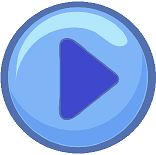
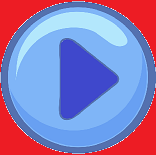
add less brightness, while not pressed srtart in Smash_It and Labyrinth

Changed region(s): [[0.0, 0.5419, 1.0, 1.0], [0.0, 0.0, 1.0, 0.4645]]

diff --git a/Augmented_climbing_wall/Labyrinth/level.cpp b/Augmented_climbing_wall/Labyrinth/level.cpp
@@ -60,6 +60,8 @@ Level::Level(std::string topScore)
 	button_soundBuffer.loadFromFile("Labyrinth/sounds/lab_actionButton_presed.wav");
 	buttonSound.setBuffer(button_soundBuffer);
 
+	brightness = false; //in false -> not full brightness
+
 
 }
 
@@ -172,13 +174,13 @@ Level::Line::Line(sf::Vector2f startPoint, float angl, float length)
 	circleRadius = 40;
 	circleShape1.setFillColor(sf::Color(0, 0, 0));
 	circleShape1.setRadius(circleRadius);
-	circleShape1.setFillColor(sf::Color(2, 188, 255));
+	circleShape1.setFillColor(sf::Color(2, 188, 255, 100));
 	circleShape1.setPosition(sf::Vector2f(_endPoint));
 	circleShape1.setOrigin(circleRadius - 8, circleRadius+8);
 
 	circleShape2.setFillColor(sf::Color(0, 0, 0));
 	circleShape2.setRadius(circleRadius);
-	circleShape2.setFillColor(sf::Color(2, 188, 255));
+	circleShape2.setFillColor(sf::Color(2, 188, 255, 100));
 	circleShape2.setPosition(sf::Vector2f(_startPoint));
 	circleShape2.setOrigin(circleRadius, circleRadius-8);
 }
@@ -192,6 +194,7 @@ Level::Button::Button(sf::Vector2f position, float radius, std::string filename,
 	_sprite.setTexture(_texture);
 	_sprite.setTextureRect(textureRect);
 	_sprite.setPosition(_position);
+	_sprite.setColor(sf::Color(255, 255, 255, 100));
 
 
 	_center = sf::Vector2f(_position.x + _radius, _position.y + _radius);
@@ -217,6 +220,7 @@ void Level::setSpritesArr(Line& line, sf::Texture texture)
 		line.sprite.setTexture(texture);
 		line.sprite.setPosition(line._startPoint);		//init the start position of all sprites
 		line.sprite.setScale(line.size.x / 210, 1);	
+		line.sprite.setColor(sf::Color(255, 255, 255, 100));
 }
 
 
@@ -236,6 +240,14 @@ void Level::linesUpdate(std::vector<Line>& lines)
 
 		lines[i].circleShape1.setPosition(sf::Vector2f(lines[i]._endPoint));
 		lines[i].circleShape2.setPosition(sf::Vector2f(lines[i]._startPoint));
+
+		//make lvl full britnes
+		if (brightness)
+		{
+			lines[i].sprite.setColor(sf::Color(255, 255, 255, 255));
+			lines[i].circleShape1.setFillColor(sf::Color(2, 188, 255, 255));
+			lines[i].circleShape2.setFillColor(sf::Color(2, 188, 255, 255));
+		}
 	}
 
 
@@ -320,7 +332,7 @@ void Level::win_lose_Draw(sf::RenderWindow & renderWindow, std::vector<Line>& li
 				renderWindow.draw(_text);
 				_text.setPosition(400, 200);
 				if (!TOPScore_updated) TOP_List_Update();
-				TOP_List_Draw();
+				score_Draw();
 			}
 			else
 			{
@@ -468,8 +480,17 @@ void Level::buttonsUpdate(std::vector<Button>& buttons)
 					buttonSound.play();
 				}
 			}
+			
 		}
 		
+	}
+	if (brightness)
+	{
+		for (int i = 0; i < buttons.size(); i++)
+		{
+
+			buttons[i]._sprite.setColor(sf::Color(255, 255, 255, 255));
+		}
 	}
 
 	//Run win animation when screan circly go white
@@ -489,47 +510,47 @@ void Level::buttonsUpdate(std::vector<Button>& buttons)
 }
 
 
-void Level::showTopScore()
-{
-	int scoresCount = 1;
-	std::vector<sf::Text> plaersScore;
-	sf::Font font;
-	font.loadFromFile("Smash_It/font/11583.ttf");
+//void Level::showTopScore()
+//{
+	//int scoresCount = 1;
+	//std::vector<sf::Text> plaersScore;
+	//sf::Font font;
+	//font.loadFromFile("Smash_It/font/11583.ttf");
 
 
 
-	std::set<std::pair<float, std::string>>::iterator it;
+	//std::set<std::pair<float, std::string>>::iterator it;
 
-	for (it = TOP_List.begin(); it != TOP_List.end(); ++it)
-	{
-
-		std::string plaerScore_str = std::to_string(scoresCount) + ". " /*+ it->second */ + "       " + std::to_string((float)it->first);
-		sf::Text plaerScore(plaerScore_str, font, 150);
-		plaerScore.setPosition(MainWindow::getWindow().getSize().x / 2 - 400, 200 + 100 * scoresCount);
-		plaersScore.push_back(plaerScore);
-
-		scoresCount++;
-	}
-
-	////Top score screen
-	//bool flag = true;
-	//while (flag)
+	//for (it = TOP_List.begin(); it != TOP_List.end(); ++it)
 	//{
-	sf::Text topScore("TOP SCORE", font, 150);
-	topScore.setPosition(MainWindow::getWindow().getSize().x / 2 - 400, 100);
+
+	//	std::string plaerScore_str = std::to_string(scoresCount) + ". " /*+ it->second */ + "       " + std::to_string((float)it->first);
+	//	sf::Text plaerScore(plaerScore_str, font, 150);
+	//	plaerScore.setPosition(MainWindow::getWindow().getSize().x / 2 - 400, 200 + 100 * scoresCount);
+	//	plaersScore.push_back(plaerScore);
+
+	//	scoresCount++;
+	//}
+
+	//////Top score screen
+	////bool flag = true;
+	////while (flag)
+	////{
+	//sf::Text topScore("TOP SCORE", font, 150);
+	//topScore.setPosition(MainWindow::getWindow().getSize().x / 2 - 400, 100);
 
 
-	MainWindow::getWindow().clear(sf::Color(0, 0, 0));
-	MainWindow::getWindow().draw(topScore);
-	for (int i = 0; i < plaersScore.size(); i++)
-	{
-		MainWindow::getWindow().draw(plaersScore[i]);
-	}
+	//MainWindow::getWindow().clear(sf::Color(0, 0, 0));
+	//MainWindow::getWindow().draw(topScore);
+	//for (int i = 0; i < plaersScore.size(); i++)
+	//{
+	//	MainWindow::getWindow().draw(plaersScore[i]);
+	//}
 
-	//MainWindow::getWindow().display();
+	////MainWindow::getWindow().display();
 
 	//}
-}
+//}
 
 
 void Level::TOP_List_Update()
@@ -559,7 +580,7 @@ void Level::TOP_List_Update()
 	TOPScore_updated = true;
 }
 
-void Level::TOP_List_Draw()
+void Level::score_Draw()
 {
 	name = to_string(Labyrinth::Timer::gameTime);
 
@@ -589,13 +610,18 @@ void Level::TOP_List_Draw()
 	text.setPosition(MainWindow::getWindow().getSize().x / 2 - 500, 400);
 
 
-	MainWindow::getWindow().draw(text);
+	//MainWindow::getWindow().draw(text);
 	MainWindow::getWindow().draw(scoreText);
 	//MainWindow::getWindow().draw(gameOverText);
 
 
 
 	
+}
+
+void Level::setBrightness(bool _brightnees)
+{
+	brightness = _brightnees;
 }
 
 

diff --git a/Augmented_climbing_wall/Labyrinth/Labyrinth_Timer.cpp b/Augmented_climbing_wall/Labyrinth/Labyrinth_Timer.cpp
@@ -5,11 +5,7 @@
 
 Labyrinth::Timer::Timer()
 {
-	gameTimeClock.restart();
-	text.setStyle(sf::Text::Bold);
-	text.setPosition(50, 400);
-	finished = false;
-	finishedTime = 0;
+	
 }
 
 Labyrinth::Timer::~Timer() {
@@ -18,6 +14,13 @@ Labyrinth::Timer::~Timer() {
 
 void Labyrinth::Timer::Load(std::string filename) {
 	font.loadFromFile(filename);
+	gameTimeClock.restart();
+	text.setStyle(sf::Text::Bold);
+	text.setPosition(50, 400);
+	text.setCharacterSize(150);
+	text.setFillColor(sf::Color(255, 255, 255, 100));
+	finished = false;
+	finishedTime = 0;
 }
 
 sf::Time Labyrinth::Timer::GetTime() {
@@ -57,6 +60,7 @@ void Labyrinth::Timer::setFinished(bool res)
 	finishedTime = gameTimeClock.getElapsedTime().asMilliseconds() / 1000.0;
 	text.setCharacterSize(250);
 	text.setPosition(500, 400);
+
 }
 bool Labyrinth::Timer::getFinished() {
 	return finished;
@@ -69,6 +73,12 @@ void Labyrinth::Timer::reInit() {
 	text.setPosition(50, 400);
 	finished = false;
 	start = false;
+	text.setFillColor(sf::Color(255, 255, 255, 100));
+}
+
+void Labyrinth::Timer::setBrightness()
+{
+	text.setFillColor(sf::Color(255, 255, 255, 255));
 }
 	
 

diff --git a/Augmented_climbing_wall/main.cpp b/Augmented_climbing_wall/main.cpp
@@ -11,7 +11,7 @@ int main()
 {
 	std::cout << "tyt&";
 	myServer *server = new myServer();
-	server->InitServer();
+	//server->InitServer();
 	Cliker::Init();
 
 
@@ -22,15 +22,15 @@ int main()
 
 	while (true)
 	{
-		switch (server->getData()[gameState])
-		//switch (1)
+		//switch (server->getData()[gameState])
+		switch (1)
 		{
 		case(myServer::EXIT):
 			break;
 		case(myServer::PLAY):
 			MainWindow::getWindow().setMouseCursorVisible(true);
-			switch (server->getData()[game])
-			//switch (2)
+			//switch (server->getData()[game])
+			switch (2 )
 			{
 			case(myServer::SMASH_IT):
 			{
@@ -45,8 +45,8 @@ int main()
 				std::cout << "LABYRINTH started \n";
 
 				Labyrinth::Game labyrinth(MainWindow::getWindow());
-				labyrinth.Start(*server, server->getData()[LvL]);
-				//labyrinth.Start(*server, 3);
+				//labyrinth.Start(*server, server->getData()[LvL]);
+				labyrinth.Start(*server, 3);
 				break;
 			}
 			case(myServer::TIME_CLIMB):

diff --git a/Augmented_climbing_wall/Labyrinth/Labyrinth_MainMenu.cpp b/Augmented_climbing_wall/Labyrinth/Labyrinth_MainMenu.cpp
@@ -24,22 +24,17 @@ void Labyrinth::TopScore::Show(std::set<std::pair<float, std::string>>& TOP_List
 		scoresCount++;
 	}
 
-	////Top score screen
-	//bool flag = true;
-	//while (flag)
-	//{
-		sf::Text topScore("TOP SCORE", font, 150);
-		topScore.setPosition(MainWindow::getWindow().getSize().x / 2 - 400, 100);
+
+	sf::Text topScore("TOP SCORE", font, 150);
+	topScore.setPosition(MainWindow::getWindow().getSize().x / 2 - 400, 100);
 
 
-		MainWindow::getWindow().clear(sf::Color(0, 0, 0));
-		MainWindow::getWindow().draw(topScore);
-		for (int i = 0; i < plaersScore.size(); i++)
-		{
-			MainWindow::getWindow().draw(plaersScore[i]);
-		}
+	MainWindow::getWindow().clear(sf::Color(0, 0, 0));
+	MainWindow::getWindow().draw(topScore);
+	for (int i = 0; i < plaersScore.size(); i++)
+	{
+		MainWindow::getWindow().draw(plaersScore[i]);
+	}
+	MainWindow::getWindow().display();
 
-		MainWindow::getWindow().display();
-
-	//}
 }

diff --git a/Augmented_climbing_wall/Labyrinth/Labyrinth_GameObjectManager.cpp b/Augmented_climbing_wall/Labyrinth/Labyrinth_GameObjectManager.cpp
@@ -70,28 +70,18 @@ void Labyrinth::GameObjectManager::UpdateAll(sf::Event& event)
 		itr->second->Update(event);
 
 		if (itr->second->getStart()) {
-			//Get("timer1")->setStart(true);
 			Labyrinth::Timer::start = true;
-			//Get("winButton")->setStart(true);
-			//Get("circleLvL")->setStart(true);
 			Get("level")->setStart(true);
 		}
 
 
 		if (itr->second->getFinished() && !Labyrinth::Timer::getFinished()) {   ///Lose the levl
 			Labyrinth::Timer::setFinished(true);
-			//Get("winButton")->setFinished(true);
-
-			
 		}
 
 		if (itr->second->getWin() && !Labyrinth::Timer::getFinished()) {		//Win the LVL
 			
 			Labyrinth::Timer::setFinished(true);
-			//Get("winButton")->setFinished(true);
-			//Get("circleLvL")->win(Get("winButton")->GetPosition());
-			//Get("level")->win(Get("winButton")->GetPosition());
-			
 		}
 		itr++;
 	}

diff --git a/Augmented_climbing_wall/Labyrinth/Labyrinth_VisibleGameObject.h b/Augmented_climbing_wall/Labyrinth/Labyrinth_VisibleGameObject.h
@@ -44,6 +44,7 @@ namespace Labyrinth
 		bool getKinectControll();
 
 		virtual void showTopScore();
+		virtual void setBrightness(bool _brightnees);
 
 		bool reInit_flag;
 

diff --git a/Augmented_climbing_wall/Labyrinth/Labyrinth_Timer.h b/Augmented_climbing_wall/Labyrinth/Labyrinth_Timer.h
@@ -19,6 +19,7 @@ namespace Labyrinth
 		static void reInit();
 		static bool start;
 		static float gameTime;
+		static void setBrightness();
 
 
 	private:

diff --git a/Augmented_climbing_wall/Labyrinth/Labyrinth_VisibleGameObject.cpp b/Augmented_climbing_wall/Labyrinth/Labyrinth_VisibleGameObject.cpp
@@ -182,3 +182,7 @@ void Labyrinth::VisibleGameObject::showTopScore()
 {
 
 }
+void Labyrinth::VisibleGameObject::setBrightness(bool _brightnees)
+{
+
+}
